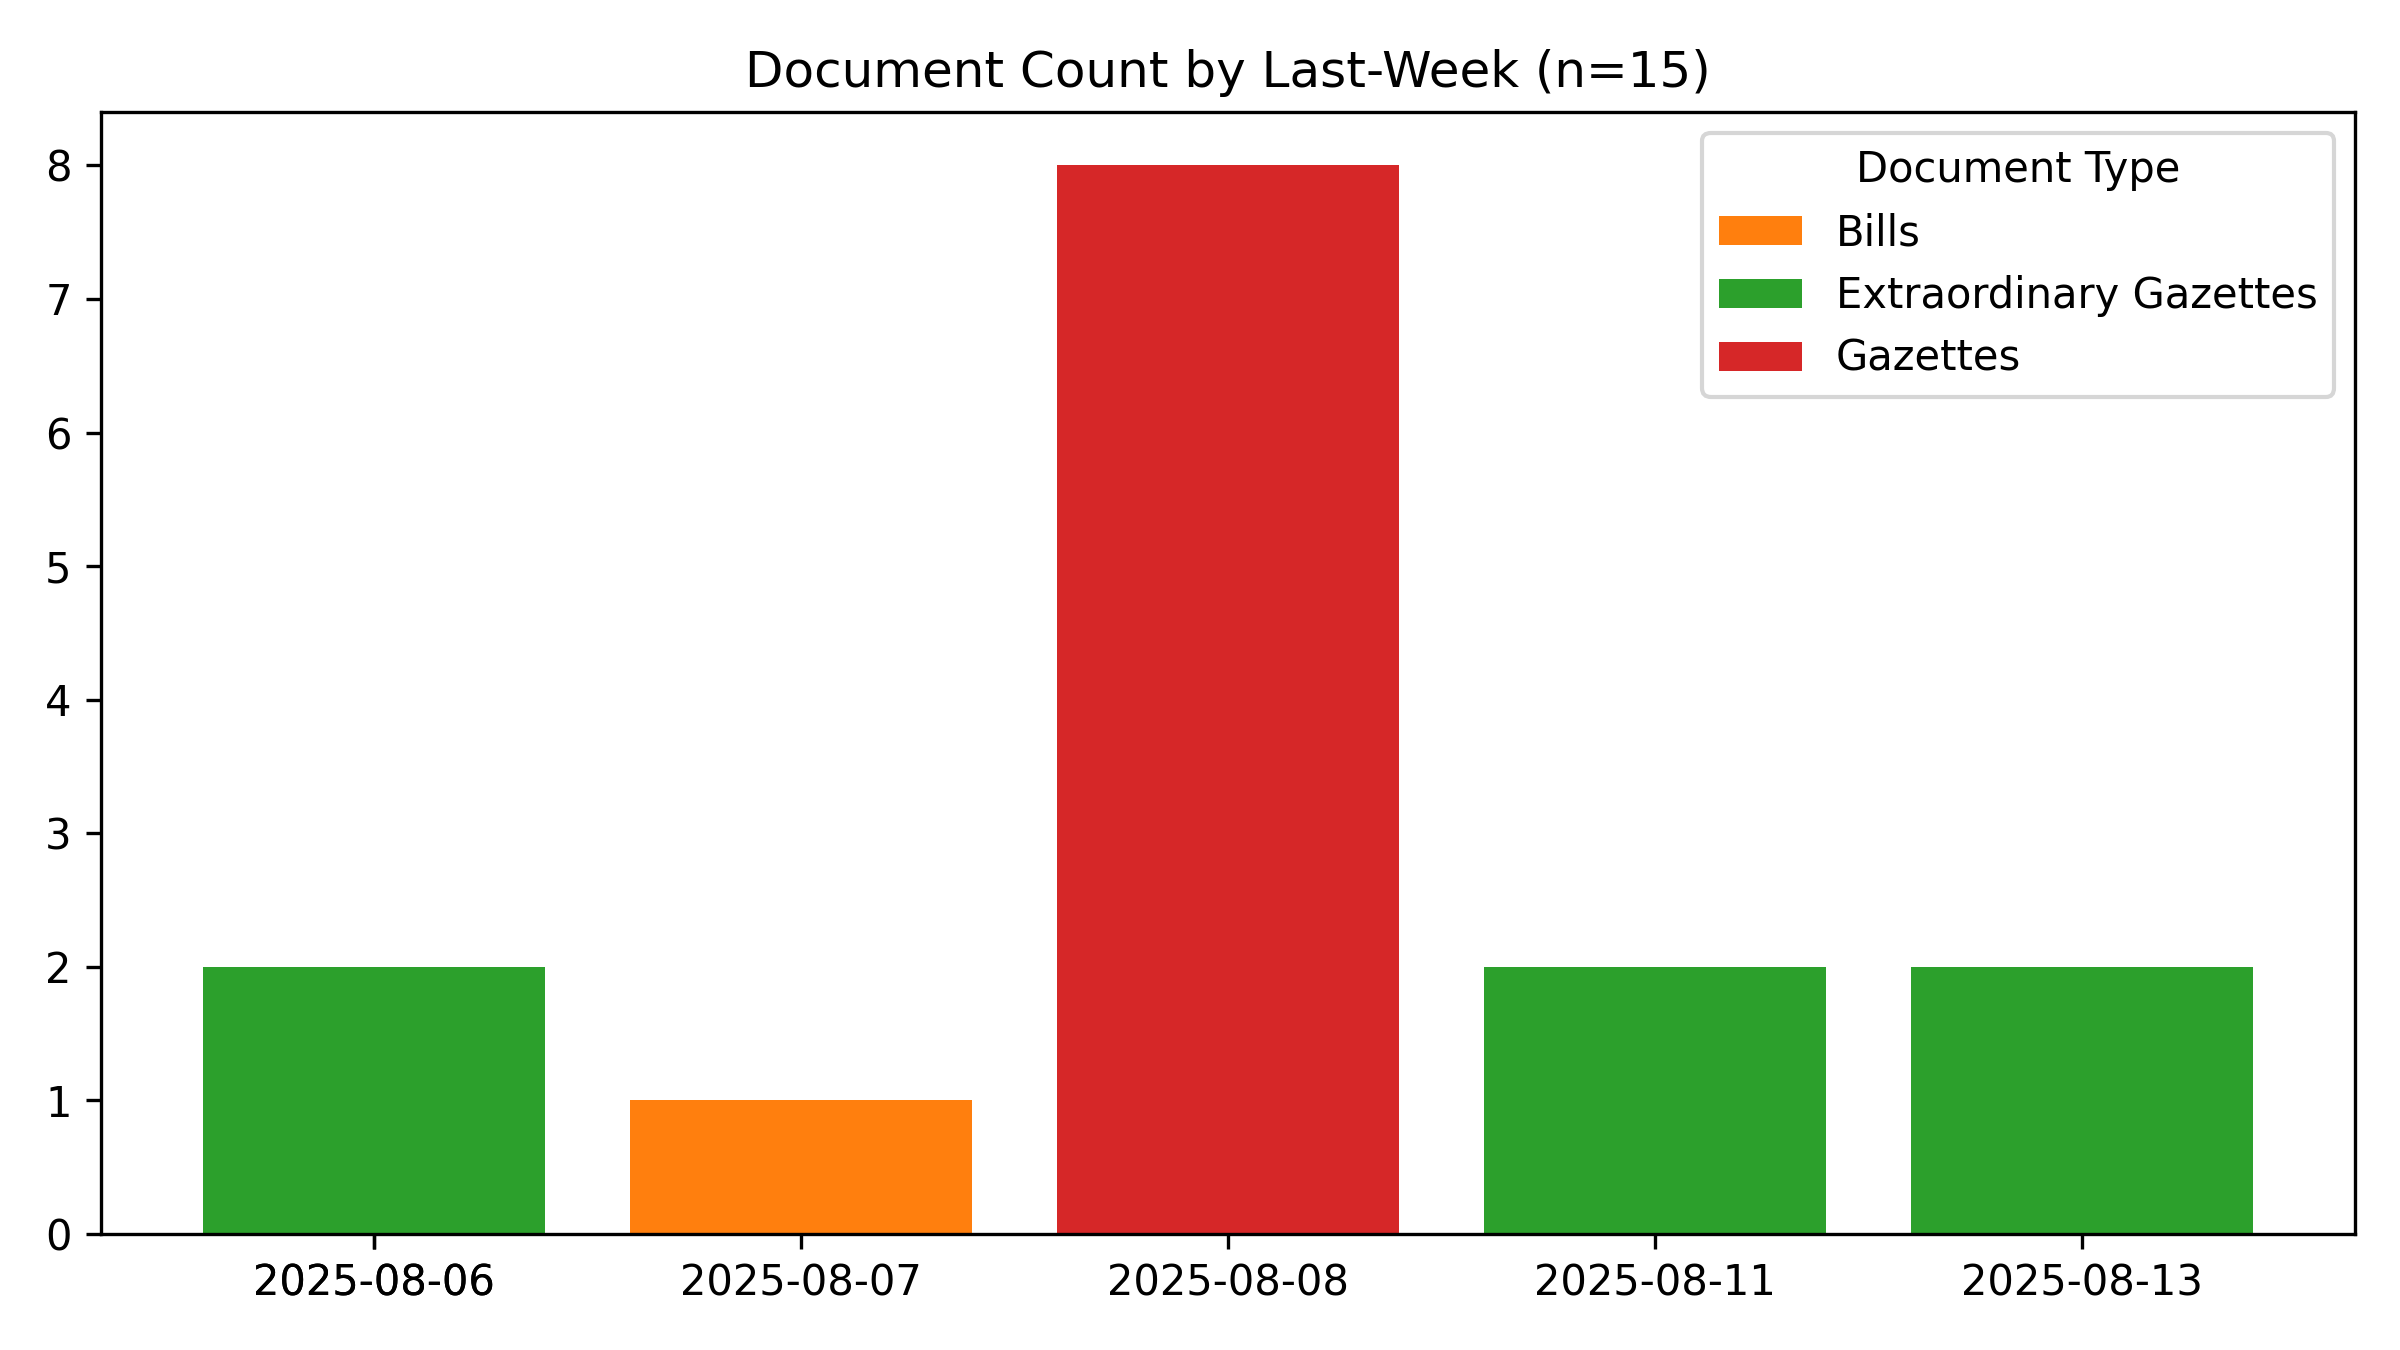
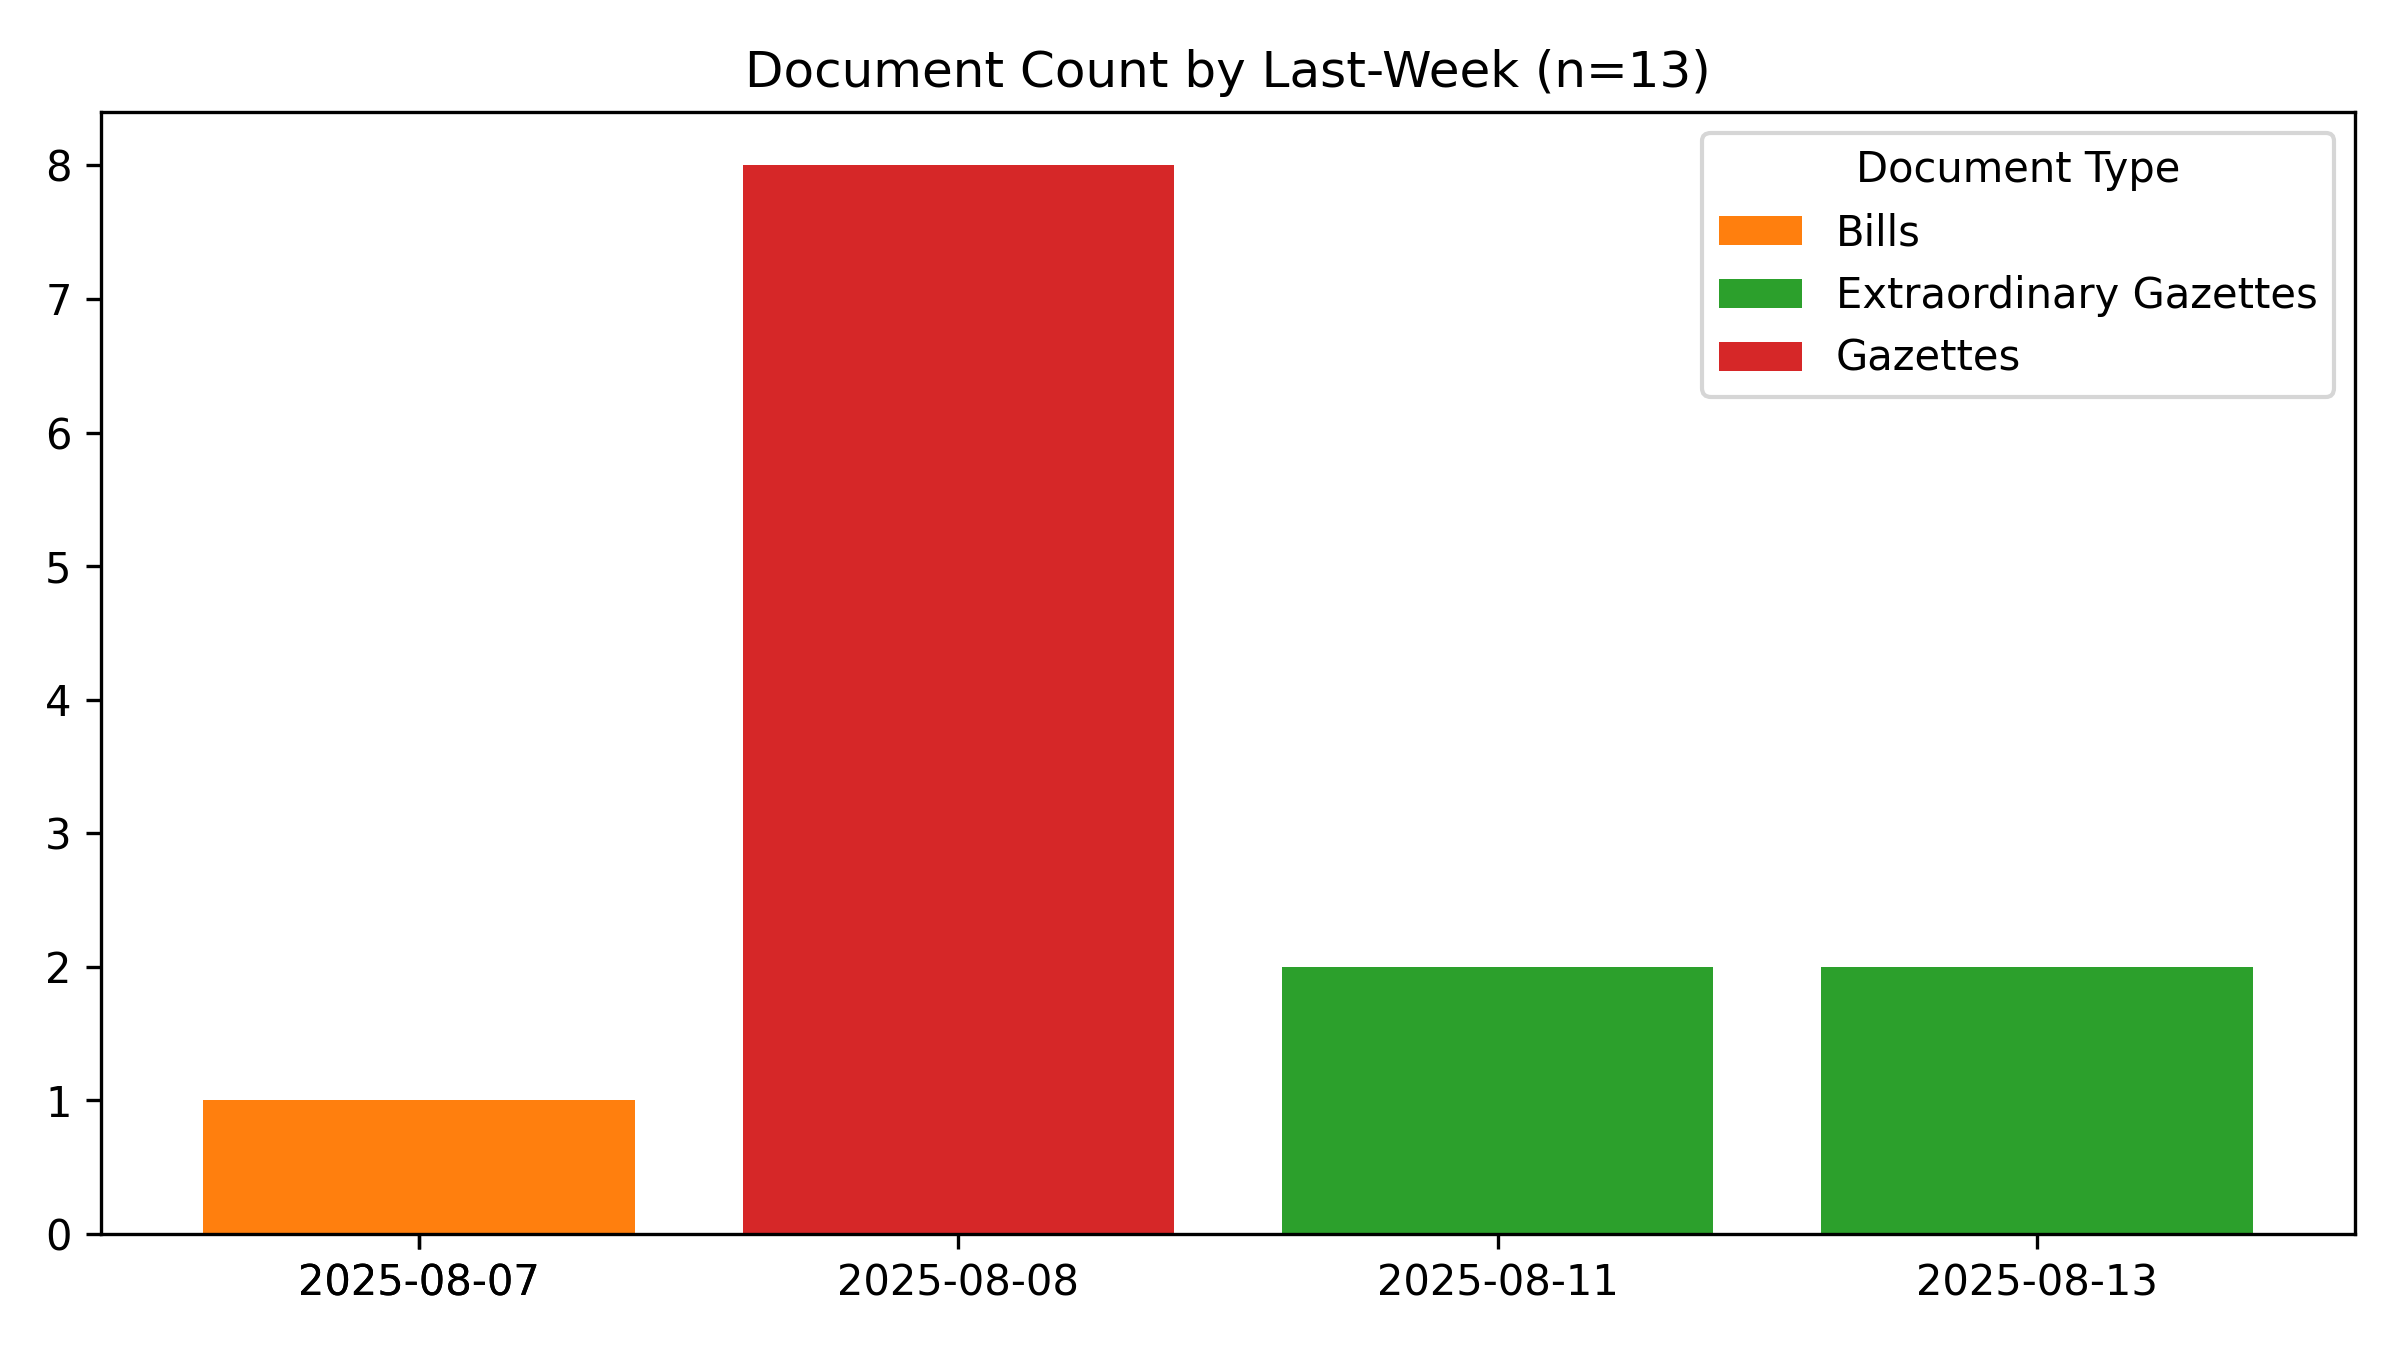
🤖 [build_readme.yml] 2025-08-14-0016

Changed region(s): [[0.0625, 0.1244, 0.9062, 0.9644]]

diff --git a/README.md b/README.md
@@ -1,6 +1,6 @@
 # #SriLanka 🇱🇰 - Legal Documents #Dataset
 
-*Last Updated **2025-08-14 05:14:32**.*
+*Last Updated **2025-08-14 05:46:21**.*
 
 **44,287** documents (24.2 MB), from 1981-01-22 to 2025-08-13.
 
@@ -54,7 +54,7 @@ For best results, use a desktop browser.
 
 ## Recent Documents (Published during the last 7 days)
 
-**15** Documents
+**13** Documents
 
 - 🚨 [2025-08-13] [Ministry of Defence - The Navy Act (Chapter 358) Order Under Section 21](https://github.com/nuuuwan/lk_legal_docs_data/tree/data_2020s/data/extra-gazettes/2025/2449-27)
 - 🚨 [2025-08-13] [Dept. of Local Government- Southern Province - Notice Under Section 66 C (1) Elected Chairman and Vice Chairman Weligama Pradeshiya Sabha](https://github.com/nuuuwan/lk_legal_docs_data/tree/data_2020s/data/extra-gazettes/2025/2449-14)
@@ -69,5 +69,3 @@ For best results, use a desktop browser.
 - 📢 [2025-08-08] [(IIA) - Advertising](https://github.com/nuuuwan/lk_legal_docs_data/tree/data_2020s/data/gazettes/2025/2025-08-08-iia-advertising)
 - 📢 [2025-08-08] [(I) - General](https://github.com/nuuuwan/lk_legal_docs_data/tree/data_2020s/data/gazettes/2025/2025-08-08-i-general)
 - ✍ [2025-08-07] [PresidentsÃ¢â¬â¢ Entitlements (Repeal) - Bill](https://github.com/nuuuwan/lk_legal_docs_data/tree/data_2020s/data/bills/2025/627-2025)
-- 🚨 [2025-08-06] [2448/34](https://github.com/nuuuwan/lk_legal_docs_data/tree/data_2020s/data/extra-gazettes/2025/2448-34)
-- 🚨 [2025-08-06] [2448/26](https://github.com/nuuuwan/lk_legal_docs_data/tree/data_2020s/data/extra-gazettes/2025/2448-26)
